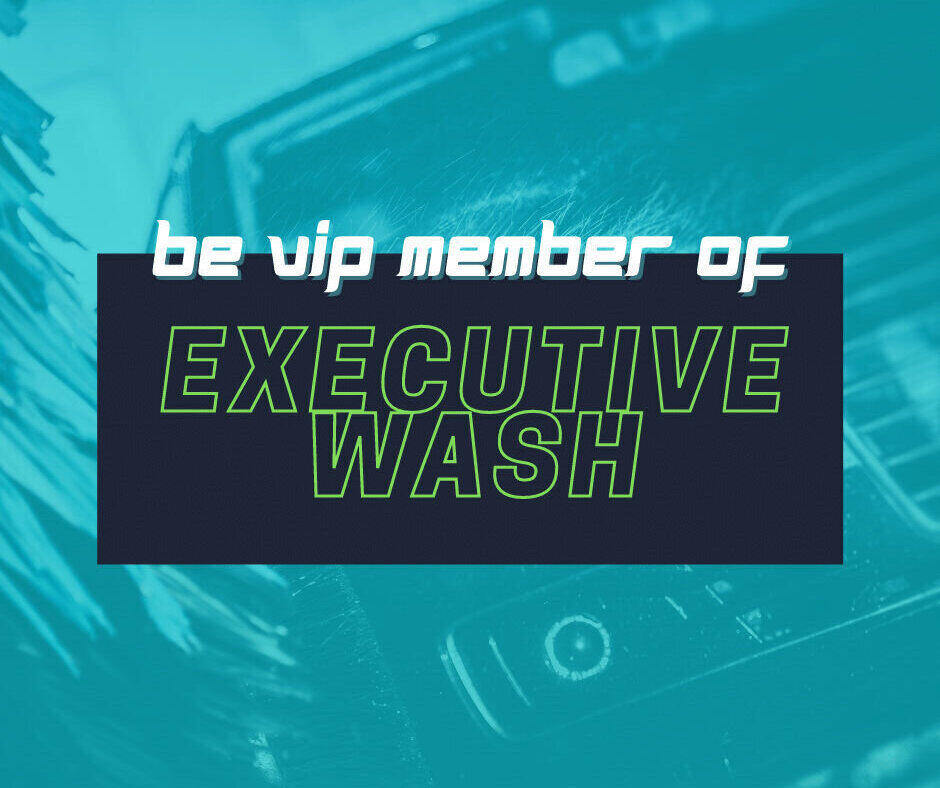
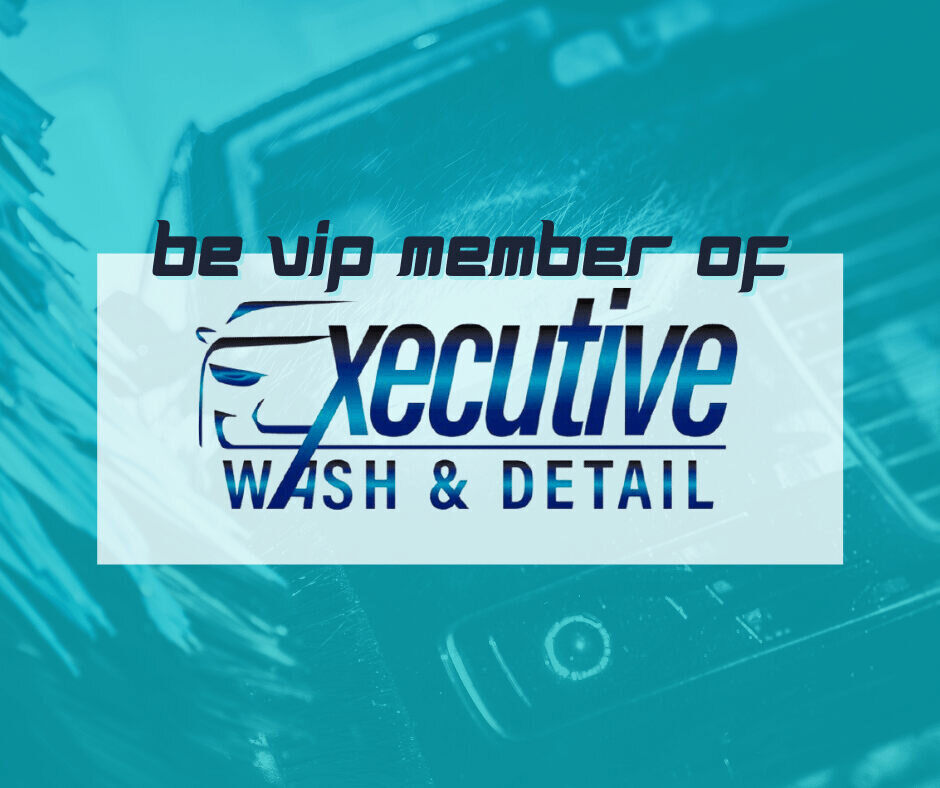
3rd update

diff --git a/src/components/common/FeatureCard.vue b/src/components/common/FeatureCard.vue
@@ -21,11 +21,13 @@
                   alt="bannerer"
                 />
               </div>
-              <div class="col-span-3 p-4 text-black">
-                <h1 class="text-xl font-semibold tracking-tight mb-3">
+              <div :class="item.class" class="col-span-3 p-4 text-black">
+                <h1 class="text-xl font-semibold tracking-tight mb-1">
                   {{ item.title }}
                 </h1>
-                <p class="text-base font-light tracking-wide mb-1">
+                <p
+                  class="text-base font-light mb-1 text-justify tracking-tighter"
+                >
                   {{ item.details }}
                 </p>
                 <router-link
@@ -51,7 +53,7 @@
                 />
               </div>
               <div class="col-span-3 p-4 text-black">
-                <h1 class="text-xl font-semibold tracking-tight mb-3">
+                <h1 class="text-xl font-semibold tracking-tight mb-1">
                   Be A VIP Member
                 </h1>
                 <p class="text-base font-light tracking-wide mb-1">
@@ -188,16 +190,18 @@ const features = [
   {
     title: "Hand Wash",
     details:
-      "If you choose to not pass your vehicle through our state of the art wash tunnel, then we offer a no machine friction solution to washing your vehicle. Your vehicle will be washed with only experienced human hands and mitts",
+      "If you choose NOT to utilize our state-of-the-art wash tunnel, then we offer a no machine friction solution to washing your vehicle. Your vehicle will be washed with only experienced human hands and mitts.",
     img: HandWash,
     link: "services",
+    class: "mb-6",
   },
   {
     title: "Machine Wash",
     details:
-      "We offer speedy service with our state-of-the-art tunnel wash using nothing but the best microfiber cloth with gentle, environmentally friendly cleaning detergents that are specially formulated for all types of vehicles",
+      "We offer speedy service with our state-of-the-art tunnel wash using nothing but the best microfiber cloth with gentle, environmentally friendly cleaning detergents that are specially formulated for all types of vehicles.",
     img: MachineWash,
     link: "services",
+    class: "mb-2",
   },
   {
     title: "Complete Detail Services",
@@ -205,6 +209,7 @@ const features = [
       "We offer collection of detailing services that cater to all types of vehicles. From waxing to shampooing, scratch removal to headlight restoration, we do it all.",
     img: CompleteWash,
     link: "services",
+    class: "",
   },
 ];
 

diff --git a/src/views/Appointment.vue b/src/views/Appointment.vue
@@ -15,10 +15,10 @@ import TestimonialCard from "@/components/common/TestimonialCard.vue";
 import NewsLetter from "@/components/common/NewsLetter.vue";
 
 const HeroData = {
-  titleOne: "Booking Appointment",
-  titleTwo: ["Make Things", "Easy"],
+  titleOne: "Booking an Appointment",
+  titleTwo: ["Makes Things", "Easy"],
   subtitle:
-    "Choosing car wash is a constant process in the life of every motorist. Entrust your car cleaning to our professional",
+    "Choosing the right Car Wash Can Be a Burdensome Process in the Life of Every Motorist. Entrust Your Car Cleaning to Our Professionals.",
   bgImage: "p-3",
 };
 

diff --git a/src/components/common/AppointmentForm.vue b/src/components/common/AppointmentForm.vue
@@ -11,6 +11,7 @@
           is-expanded
           is-dark
           :min-date="new Date()"
+          :disabled-dates="{ weekdays: [1, 7] }"
           class="py-5 p-5 my-14"
         />
       </div>
@@ -29,6 +30,7 @@
               :min-date="new Date()"
               v-model="date"
               mode="dateTime"
+              :disabled-dates="{ weekdays: [1, 7] }"
               :minute-increment="30"
               is12hr
               color="green"

diff --git a/src/views/Home.vue b/src/views/Home.vue
@@ -23,7 +23,7 @@ import Banner from "@/components/Home/Banner.vue";
 // Data Section
 const HeroData = {
   titleOne: "Executive ",
-  titleTwo: ["Wash and ", "Detail"],
+  titleTwo: ["Wash & ", "Detail"],
   subtitle:
     "Best Full Service Car Wash in Pembroke Pines with 2 decades worth of experience",
   bgImage: "bgImageHome object-cover",

diff --git a/src/components/common/Cta.vue b/src/components/common/Cta.vue
@@ -14,7 +14,7 @@
             >
               Need Help? <br />
               We are here <br />
-              to help you.
+              For You.
             </h1>
             <router-link
               to="contact"
